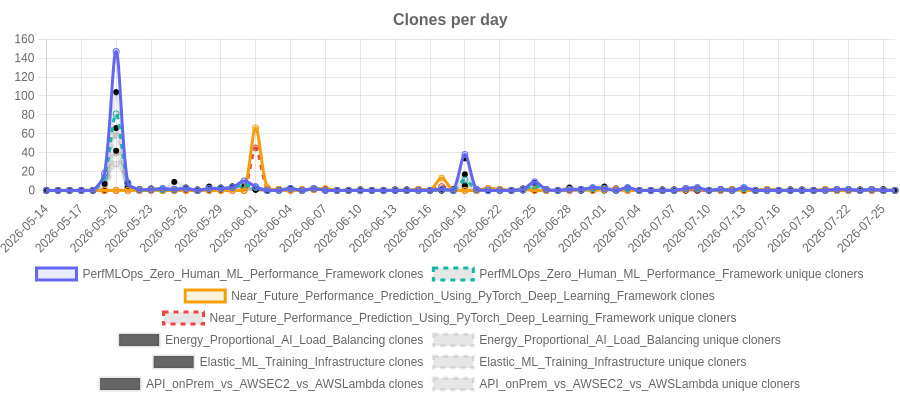
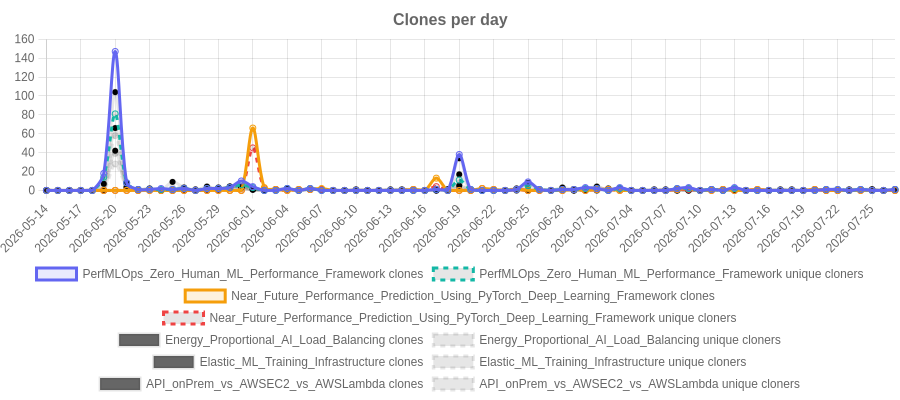
chore: archive traffic 2026-07-28

Changed region(s): [[0.0311, 0.12, 1.0, 0.63]]

diff --git a/index.html b/index.html
@@ -13,11 +13,11 @@ img{width:100%;border:1px solid #eee;border-radius:8px;margin-bottom:24px}
 </head>
 <body>
 <h1>Repo Traffic</h1>
-<p class="updated">Last updated: Mon, 27 Jul 2026 09:44:45 GMT</p>
+<p class="updated">Last updated: Tue, 28 Jul 2026 08:28:59 GMT</p>
 <h2>Combined totals</h2>
-<div class="cards"><div style="border:2px solid #6366f1;border-radius:12px;padding:24px;min-width:280px;width:340px;box-sizing:border-box;background:#f8f7ff"><div style="font-size:14px;font-weight:700;color:#6366f1;margin-bottom:14px">All repos combined</div><table style="width:100%;border-collapse:collapse;font-size:14px"><tr><td style="color:#888;padding:10px 0">Total views</td><td style="text-align:right;font-weight:700;font-size:22px;color:#6366f1">523</td></tr><tr><td style="color:#888;padding:10px 0">Total unique visitors</td><td style="text-align:right;font-weight:700;font-size:22px;color:#6366f1">90</td></tr><tr><td style="color:#888;padding:10px 0">Total clones</td><td style="text-align:right;font-weight:700;font-size:22px;color:#14b8a6">796</td></tr><tr><td style="color:#888;padding:10px 0">Total unique cloners</td><td style="text-align:right;font-weight:700;font-size:22px;color:#14b8a6">513</td></tr></table></div></div>
+<div class="cards"><div style="border:2px solid #6366f1;border-radius:12px;padding:24px;min-width:280px;width:340px;box-sizing:border-box;background:#f8f7ff"><div style="font-size:14px;font-weight:700;color:#6366f1;margin-bottom:14px">All repos combined</div><table style="width:100%;border-collapse:collapse;font-size:14px"><tr><td style="color:#888;padding:10px 0">Total views</td><td style="text-align:right;font-weight:700;font-size:22px;color:#6366f1">523</td></tr><tr><td style="color:#888;padding:10px 0">Total unique visitors</td><td style="text-align:right;font-weight:700;font-size:22px;color:#6366f1">90</td></tr><tr><td style="color:#888;padding:10px 0">Total clones</td><td style="text-align:right;font-weight:700;font-size:22px;color:#14b8a6">799</td></tr><tr><td style="color:#888;padding:10px 0">Total unique cloners</td><td style="text-align:right;font-weight:700;font-size:22px;color:#14b8a6">516</td></tr></table></div></div>
 <h2>Per repo totals</h2>
-<div class="cards"><div style="border:1px solid #ddd;border-radius:8px;padding:16px;flex:1;min-width:180px;box-sizing:border-box"><div style="font-size:11px;color:#666;word-break:break-all;margin-bottom:10px;font-weight:600">PerfMLOps_Zero_Human_ML_Performance_Framework</div><table style="width:100%;border-collapse:collapse;font-size:13px"><tr><td style="color:#888;padding:4px 0">Views</td><td style="text-align:right;font-weight:700;font-size:16px;color:#6366f1">189</td></tr><tr><td style="color:#888;padding:4px 0">Unique visitors</td><td style="text-align:right;font-weight:700;font-size:16px;color:#6366f1">20</td></tr><tr><td style="color:#888;padding:4px 0">Clones</td><td style="text-align:right;font-weight:700;font-size:16px;color:#14b8a6">278</td></tr><tr><td style="color:#888;padding:4px 0">Unique cloners</td><td style="text-align:right;font-weight:700;font-size:16px;color:#14b8a6">167</td></tr></table></div><div style="border:1px solid #ddd;border-radius:8px;padding:16px;flex:1;min-width:180px;box-sizing:border-box"><div style="font-size:11px;color:#666;word-break:break-all;margin-bottom:10px;font-weight:600">Near_Future_Performance_Prediction_Using_PyTorch_Deep_Learning_Framework</div><table style="width:100%;border-collapse:collapse;font-size:13px"><tr><td style="color:#888;padding:4px 0">Views</td><td style="text-align:right;font-weight:700;font-size:16px;color:#6366f1">59</td></tr><tr><td style="color:#888;padding:4px 0">Unique visitors</td><td style="text-align:right;font-weight:700;font-size:16px;color:#6366f1">17</td></tr><tr><td style="color:#888;padding:4px 0">Clones</td><td style="text-align:right;font-weight:700;font-size:16px;color:#14b8a6">101</td></tr><tr><td style="color:#888;padding:4px 0">Unique cloners</td><td style="text-align:right;font-weight:700;font-size:16px;color:#14b8a6">68</td></tr></table></div><div style="border:1px solid #ddd;border-radius:8px;padding:16px;flex:1;min-width:180px;box-sizing:border-box"><div style="font-size:11px;color:#666;word-break:break-all;margin-bottom:10px;font-weight:600">Energy_Proportional_AI_Load_Balancing</div><table style="width:100%;border-collapse:collapse;font-size:13px"><tr><td style="color:#888;padding:4px 0">Views</td><td style="text-align:right;font-weight:700;font-size:16px;color:#6366f1">100</td></tr><tr><td style="color:#888;padding:4px 0">Unique visitors</td><td style="text-align:right;font-weight:700;font-size:16px;color:#6366f1">26</td></tr><tr><td style="color:#888;padding:4px 0">Clones</td><td style="text-align:right;font-weight:700;font-size:16px;color:#14b8a6">161</td></tr><tr><td style="color:#888;padding:4px 0">Unique cloners</td><td style="text-align:right;font-weight:700;font-size:16px;color:#14b8a6">113</td></tr></table></div><div style="border:1px solid #ddd;border-radius:8px;padding:16px;flex:1;min-width:180px;box-sizing:border-box"><div style="font-size:11px;color:#666;word-break:break-all;margin-bottom:10px;font-weight:600">Elastic_ML_Training_Infrastructure</div><table style="width:100%;border-collapse:collapse;font-size:13px"><tr><td style="color:#888;padding:4px 0">Views</td><td style="text-align:right;font-weight:700;font-size:16px;color:#6366f1">72</td></tr><tr><td style="color:#888;padding:4px 0">Unique visitors</td><td style="text-align:right;font-weight:700;font-size:16px;color:#6366f1">16</td></tr><tr><td style="color:#888;padding:4px 0">Clones</td><td style="text-align:right;font-weight:700;font-size:16px;color:#14b8a6">78</td></tr><tr><td style="color:#888;padding:4px 0">Unique cloners</td><td style="text-align:right;font-weight:700;font-size:16px;color:#14b8a6">61</td></tr></table></div><div style="border:1px solid #ddd;border-radius:8px;padding:16px;flex:1;min-width:180px;box-sizing:border-box"><div style="font-size:11px;color:#666;word-break:break-all;margin-bottom:10px;font-weight:600">API_onPrem_vs_AWSEC2_vs_AWSLambda</div><table style="width:100%;border-collapse:collapse;font-size:13px"><tr><td style="color:#888;padding:4px 0">Views</td><td style="text-align:right;font-weight:700;font-size:16px;color:#6366f1">103</td></tr><tr><td style="color:#888;padding:4px 0">Unique visitors</td><td style="text-align:right;font-weight:700;font-size:16px;color:#6366f1">11</td></tr><tr><td style="color:#888;padding:4px 0">Clones</td><td style="text-align:right;font-weight:700;font-size:16px;color:#14b8a6">178</td></tr><tr><td style="color:#888;padding:4px 0">Unique cloners</td><td style="text-align:right;font-weight:700;font-size:16px;color:#14b8a6">104</td></tr></table></div></div>
+<div class="cards"><div style="border:1px solid #ddd;border-radius:8px;padding:16px;flex:1;min-width:180px;box-sizing:border-box"><div style="font-size:11px;color:#666;word-break:break-all;margin-bottom:10px;font-weight:600">PerfMLOps_Zero_Human_ML_Performance_Framework</div><table style="width:100%;border-collapse:collapse;font-size:13px"><tr><td style="color:#888;padding:4px 0">Views</td><td style="text-align:right;font-weight:700;font-size:16px;color:#6366f1">189</td></tr><tr><td style="color:#888;padding:4px 0">Unique visitors</td><td style="text-align:right;font-weight:700;font-size:16px;color:#6366f1">20</td></tr><tr><td style="color:#888;padding:4px 0">Clones</td><td style="text-align:right;font-weight:700;font-size:16px;color:#14b8a6">279</td></tr><tr><td style="color:#888;padding:4px 0">Unique cloners</td><td style="text-align:right;font-weight:700;font-size:16px;color:#14b8a6">168</td></tr></table></div><div style="border:1px solid #ddd;border-radius:8px;padding:16px;flex:1;min-width:180px;box-sizing:border-box"><div style="font-size:11px;color:#666;word-break:break-all;margin-bottom:10px;font-weight:600">Near_Future_Performance_Prediction_Using_PyTorch_Deep_Learning_Framework</div><table style="width:100%;border-collapse:collapse;font-size:13px"><tr><td style="color:#888;padding:4px 0">Views</td><td style="text-align:right;font-weight:700;font-size:16px;color:#6366f1">59</td></tr><tr><td style="color:#888;padding:4px 0">Unique visitors</td><td style="text-align:right;font-weight:700;font-size:16px;color:#6366f1">17</td></tr><tr><td style="color:#888;padding:4px 0">Clones</td><td style="text-align:right;font-weight:700;font-size:16px;color:#14b8a6">101</td></tr><tr><td style="color:#888;padding:4px 0">Unique cloners</td><td style="text-align:right;font-weight:700;font-size:16px;color:#14b8a6">68</td></tr></table></div><div style="border:1px solid #ddd;border-radius:8px;padding:16px;flex:1;min-width:180px;box-sizing:border-box"><div style="font-size:11px;color:#666;word-break:break-all;margin-bottom:10px;font-weight:600">Energy_Proportional_AI_Load_Balancing</div><table style="width:100%;border-collapse:collapse;font-size:13px"><tr><td style="color:#888;padding:4px 0">Views</td><td style="text-align:right;font-weight:700;font-size:16px;color:#6366f1">100</td></tr><tr><td style="color:#888;padding:4px 0">Unique visitors</td><td style="text-align:right;font-weight:700;font-size:16px;color:#6366f1">26</td></tr><tr><td style="color:#888;padding:4px 0">Clones</td><td style="text-align:right;font-weight:700;font-size:16px;color:#14b8a6">162</td></tr><tr><td style="color:#888;padding:4px 0">Unique cloners</td><td style="text-align:right;font-weight:700;font-size:16px;color:#14b8a6">114</td></tr></table></div><div style="border:1px solid #ddd;border-radius:8px;padding:16px;flex:1;min-width:180px;box-sizing:border-box"><div style="font-size:11px;color:#666;word-break:break-all;margin-bottom:10px;font-weight:600">Elastic_ML_Training_Infrastructure</div><table style="width:100%;border-collapse:collapse;font-size:13px"><tr><td style="color:#888;padding:4px 0">Views</td><td style="text-align:right;font-weight:700;font-size:16px;color:#6366f1">72</td></tr><tr><td style="color:#888;padding:4px 0">Unique visitors</td><td style="text-align:right;font-weight:700;font-size:16px;color:#6366f1">16</td></tr><tr><td style="color:#888;padding:4px 0">Clones</td><td style="text-align:right;font-weight:700;font-size:16px;color:#14b8a6">78</td></tr><tr><td style="color:#888;padding:4px 0">Unique cloners</td><td style="text-align:right;font-weight:700;font-size:16px;color:#14b8a6">61</td></tr></table></div><div style="border:1px solid #ddd;border-radius:8px;padding:16px;flex:1;min-width:180px;box-sizing:border-box"><div style="font-size:11px;color:#666;word-break:break-all;margin-bottom:10px;font-weight:600">API_onPrem_vs_AWSEC2_vs_AWSLambda</div><table style="width:100%;border-collapse:collapse;font-size:13px"><tr><td style="color:#888;padding:4px 0">Views</td><td style="text-align:right;font-weight:700;font-size:16px;color:#6366f1">103</td></tr><tr><td style="color:#888;padding:4px 0">Unique visitors</td><td style="text-align:right;font-weight:700;font-size:16px;color:#6366f1">11</td></tr><tr><td style="color:#888;padding:4px 0">Clones</td><td style="text-align:right;font-weight:700;font-size:16px;color:#14b8a6">179</td></tr><tr><td style="color:#888;padding:4px 0">Unique cloners</td><td style="text-align:right;font-weight:700;font-size:16px;color:#14b8a6">105</td></tr></table></div></div>
 <h2>Views chart</h2>
 <img src="charts/views.png" alt="Views chart"/>
 <h2>Clones chart</h2>
